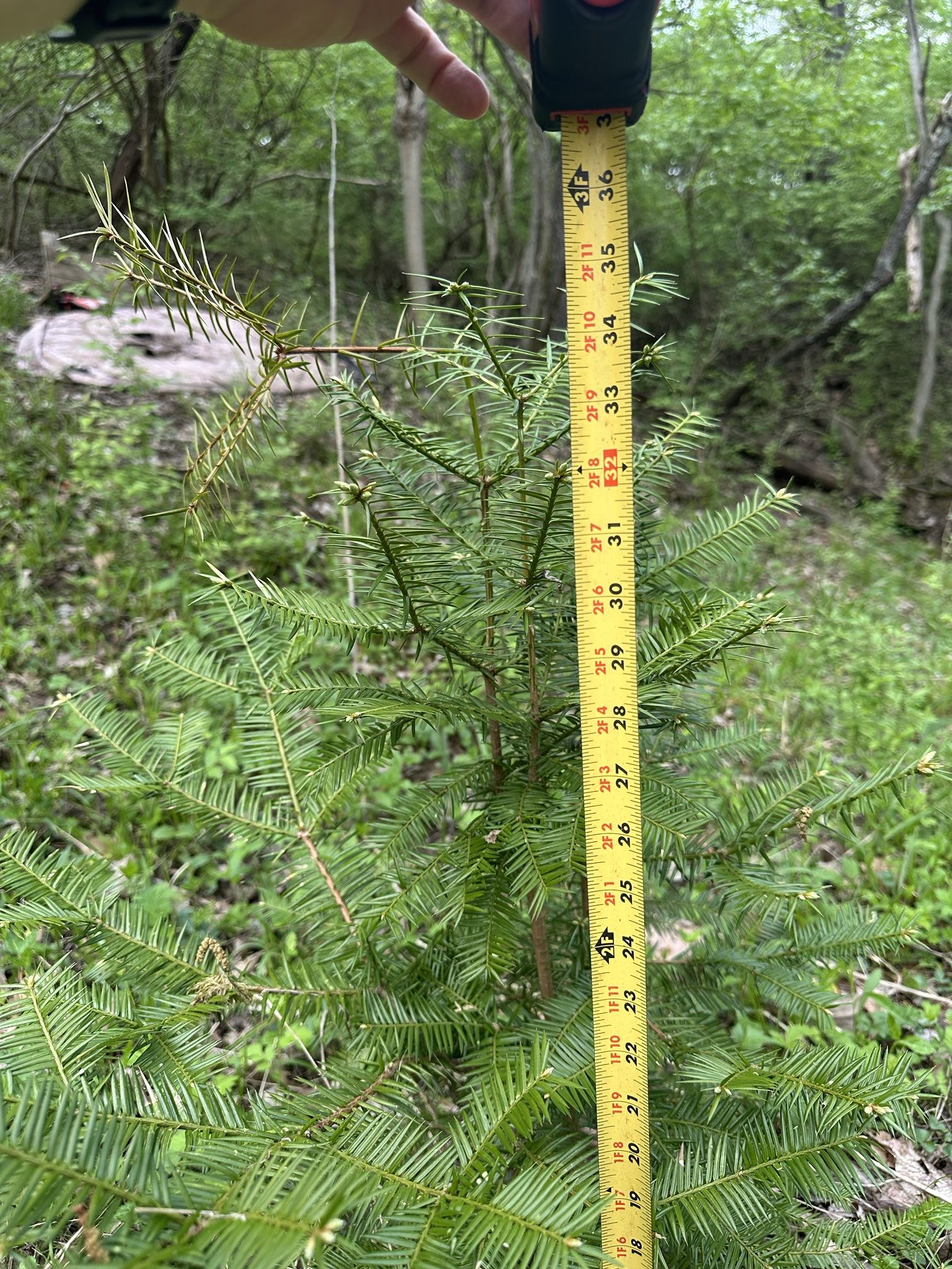
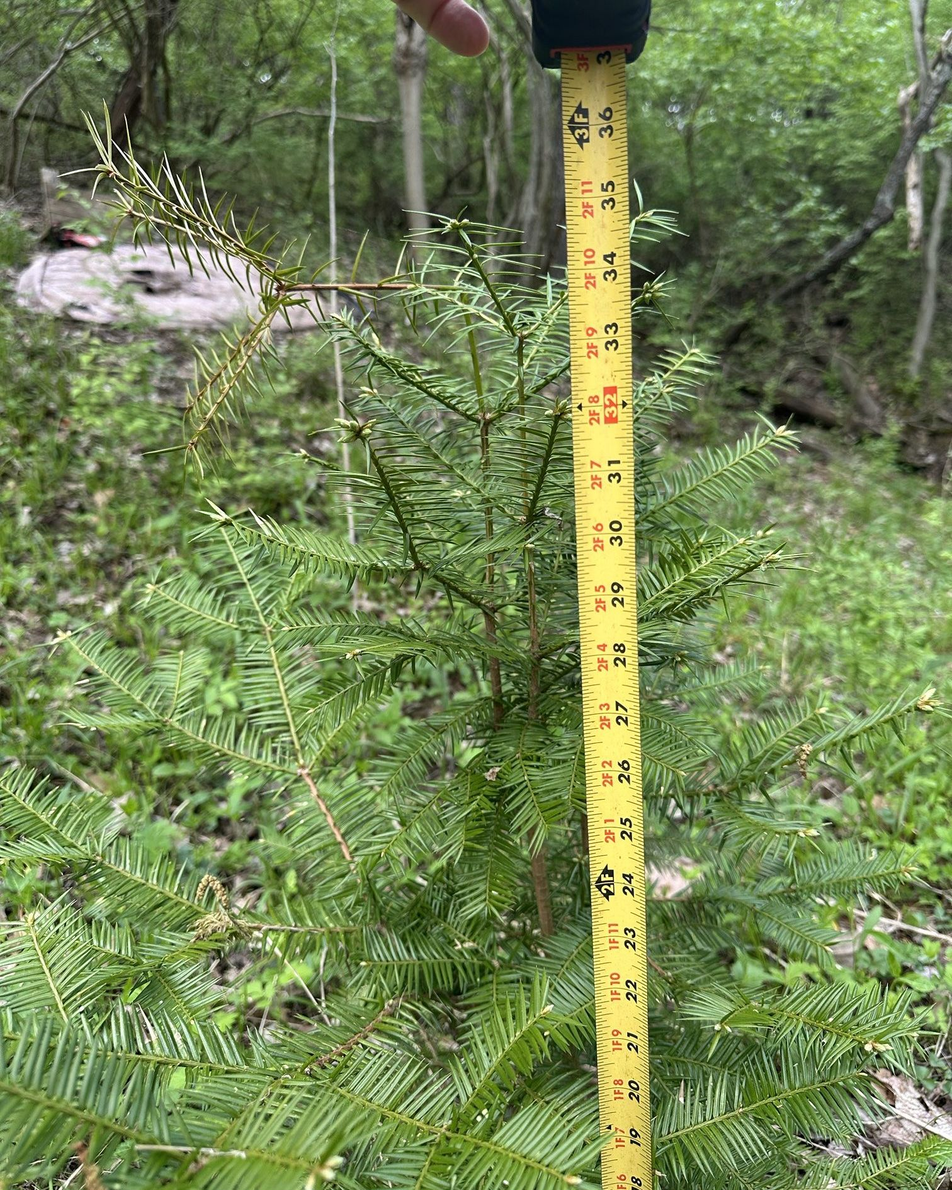
Recrop plant photos to a less extreme portrait ratio
Both photos were very tall/narrow (clover ~1:1.8, trimming a lot of
background wall/leaf litter at the top; torreya similar), which made
them render narrow and oddly proportioned on the page once scaled
down. Cropped both to ~4:5, trimming the distracting background on
the clover photo and the hand/tape-clip area on the torreya photo.
Raised the CSS max-height cap so a 4:5 image fills the article's text
measure width instead of being height-constrained into a narrow sliver.

Claude-Session: https://claude.ai/code/session_01Ecafc3ax9hL37aEJfsGcxU

diff --git a/land.html b/land.html
@@ -61,7 +61,7 @@
     <h2 id="plants">Rare plants</h2>
     <p>Three plants of conservation concern grow on the property. None is a naturally occurring population on this site. Locations and numbers are not published.</p>
 
-    <img class="plant-photo" src="/assets/img/florida-torreya.jpg" alt="A young conifer sapling next to a tape measure showing about three feet of height" width="1512" height="2016" loading="lazy">
+    <img class="plant-photo" src="/assets/img/florida-torreya.jpg" alt="A young conifer sapling next to a tape measure showing about three feet of height" width="1512" height="1890" loading="lazy">
 
     <h3>Florida torreya (<em>Torreya taxifolia</em>)</h3>
     <p>A federally endangered conifer native to a small area along the Apalachicola River in the Florida Panhandle and southwestern Georgia. Mature trees grow on the property, far north of that range.</p>
@@ -73,7 +73,7 @@
     <h3>American chestnut (<em>Castanea dentata</em>)</h3>
     <p>Pure American chestnut, not a hybrid. Once among the largest trees of eastern North American forests, it was nearly eliminated by chestnut blight, an introduced fungus identified in New York in 1904. In Ohio, its historic range lay mainly in the eastern half of the state.</p>
 
-    <img class="plant-photo" src="/assets/img/running-buffalo-clover.jpg" alt="Clover growing in leaf litter at the edge of a planting bed" width="1449" height="2576" loading="lazy">
+    <img class="plant-photo" src="/assets/img/running-buffalo-clover.jpg" alt="Clover growing in leaf litter at the edge of a planting bed" width="1449" height="1811" loading="lazy">
 
     <h3>Running buffalo clover (<em>Trifolium stoloniferum</em>)</h3>
     <p>A native clover that spreads by runners along the ground. Long thought extinct, it was found again in Ohio in 1985. It was removed from the federal endangered species list in 2021 on the basis of recovery and is listed by the State of Ohio as potentially threatened. A few wild populations persist in southwestern Ohio, including in Hamilton County.</p>

diff --git a/styles.css b/styles.css
@@ -253,7 +253,7 @@ img {
 
 .plant-photo {
   max-width: 100%;
-  max-height: 620px;
+  max-height: 860px;
   width: auto;
   height: auto;
   display: block;
